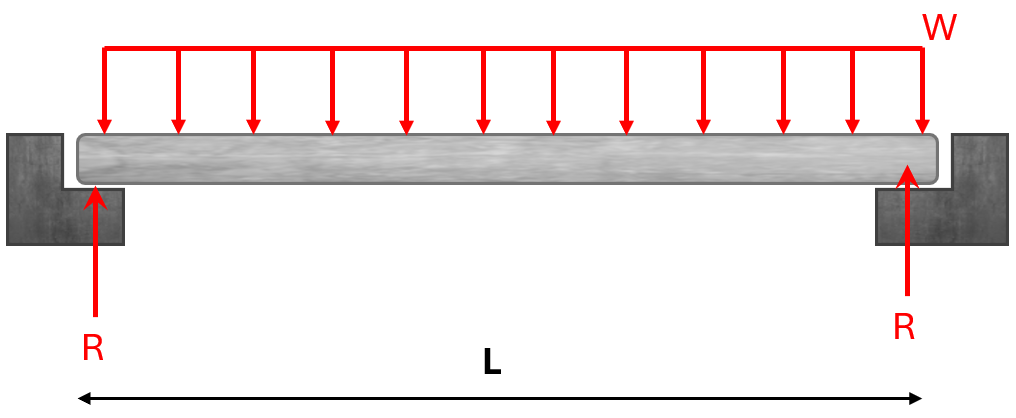
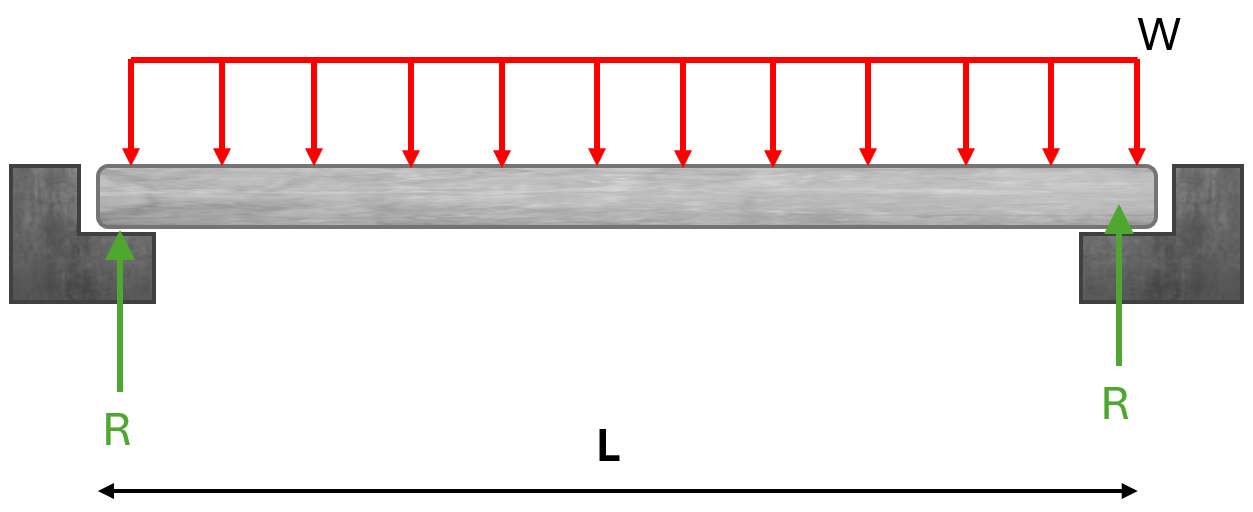
Teoria Apoyos y reacciones

diff --git a/Class_Teoria.py b/Class_Teoria.py
@@ -798,23 +798,28 @@ conceptuales = [
 
 
 
-    # #------------------------------------------------------ Apoyos ----------------------------------------------------------
-    # #-------------------------------------------------    51000##0       ---------------------------------------------------
-    # Theory(#1
-    #     code = 5100010, 
-    #     no_pregunta = 1,
-    #     topic = "Apoyos y reacciones",
-    #     subtopic = "Apoyos y reacciones",
-    #     enunciado ="¿Cuál de los siguientes tipos de apoyos genera una reacción vertical y una reacción horizontal, pero no un momento?", 
-    #     opcion_1 = "Apoyo fijo o empotramiento",
-    #     opcion_2 = "Apoyo con articulación",
-    #     opcion_3 = "Apoyo tipo rodillo o patín",
-    #     opcion_4 = "Apoyo con collarín",
-    #     opcion_correcta = "Apoyo con articulación",
-    #     respuesta_P1 = "Un apoyo con articulación es un apoyo de segundo grado.Por ello, genera 2 reacciones las cuales restringen el desplazamiento pero no el giro o momento.",
-    #     respuesta_P2 = "",
-    #     ),
-             
+    #------------------------------------------------------ Apoyos ----------------------------------------------------------
+    #-------------------------------------------------    51000##0       ---------------------------------------------------
+    Theory(#1
+        code = 5100010, 
+        no_pregunta = 1,
+        topic = "Apoyos y reacciones",
+        subtopic = "Apoyos y reacciones",
+        enunciado = "Se puede afirmar sobre las reacciones de los apoyos $A$ y $B$ mostradas en la siguiente figura que:", 
+        opcion_1 = "Son correctas. Las reacciones corresponden al número de grados de libertad del apoyo; por lo tanto, un apoyo de primer grado tiene dos reacciones y un apoyo de segundo grado tiene una reacción.",
+        opcion_2 = "Son incorrectas. Las reacciones corresponden al número de restricciones del apoyo; por lo tanto, un apoyo de primer grado tiene una reacción y un apoyo de segundo grado tiene dos reacciones.",
+        opcion_3 = "Son incorrectas. Ambos apoyos generan el mismo número de reacciones para mantener el equilibrio.",
+        opcion_4 = "Son correctas. La suma de las reacciones de un apoyo de primer y segundo grado es tres.",
+        opcion_correcta = "Son incorrectas. Las reacciones corresponden al número de restricciones del apoyo; por lo tanto, un apoyo de primer grado tiene una reacción y un apoyo de segundo grado tiene dos reacciones.",
+        respuesta_P1 ="""
+        Son incorrectas. El grado del apoyo está relacionado con el número de restricciones que impone al movimiento del cuerpo.   
+
+        Un apoyo de primer grado, restringe únicamente la traslación en una dirección, por lo que genera una única reacción.  
+        Un apoyo de segundo grado, restringe las traslaciones en dos direcciones, por lo que genera dos reacciones. 
+        """,
+        respuesta_P2 = "",
+        ),
+   
     Theory(#2
         code = 5100020, 
         no_pregunta = 2,
@@ -829,28 +834,10 @@ conceptuales = [
         respuesta_P1 = "Los apoyos de primer grado, tanto en 2D como en 3D, son aquellos que impiden el desplazamiento en una sola dirección, lo cual genera una sola reacción.",
         respuesta_P2 = "",
         ),
-             
-    # Theory(#3
-    #     code = 5100030, 
-    #     no_pregunta = 3,
-    #     topic = "Apoyos y reacciones",
-    #     subtopic = "Apoyos y reacciones",
-    #     enunciado = "Considere las siguientes figuras e indique el número de restricciones o reacciones que generan teniendo en cuenta un sistema de tres cordenadas (3D) :",
-    #     opcion_1 = "I: 6; II: 3; III: 2",
-    #     opcion_2 = "I: 3; II: 2; III: 1",
-    #     opcion_3 = "I: 5; II: 6; III: 0",
-    #     opcion_4 = "I: 6; II: 5; III: 1",
-    #     opcion_correcta = "I: 6; II: 5; III: 1",
-    #     respuesta_P1 = """
-    #     La figura 1 es un apoyo fijo que no permite desplazamieto ni momento en ninguna dirección (x,y,z).
-    #     La figura 2 es un pasador y por ende permite únicamente el giro en una sola dirección. De tal forma que: #reacciones (3D) = 6 - Grados de libertad = 6 - 1 = 5.
-    #     La figura 3 permite el giro en las tres direcciones (Mx, My, Mz) y el desplazamiento en todo el plano del suelo (convencionalmente x-y) pero no hacia arriba. Del tal forma que: #reacciones (3D) = 6 - Grados de libertad = 6 - 5 = 1.""",
-    #     respuesta_P2 = "",
-    #     ),    
-
-    Theory(#4
-        code = 5100040, 
-        no_pregunta = 4,
+               
+    Theory(#3
+        code = 5100030, 
+        no_pregunta = 3,
         topic = "Apoyos y reacciones",
         subtopic = "Apoyos y reacciones",
         enunciado = "¿Cuáles reacciones genera un apoyo empotrado en un estructura bidimensional?",
@@ -879,21 +866,6 @@ conceptuales = [
     #     opcion_4 = "Todas las cargas se aplican en los nodos y existe fricción en las uniones.",
     #     opcion_correcta =  "Todas las cargas se aplican en los nodos y no existe fricción en las uniones.",
     #     respuesta_P1 = " ",
-    #     respuesta_P2 = "",
-    #     ),
-
-    # Theory(#2
-    #     code = 6100020, 
-    #     no_pregunta = 2,
-    #     topic = "Equilibrio de partículas",
-    #     subtopic = "Cerchas",
-    #     enunciado ="¿Cuál es la condición básica para que una cercha sea estáticamente determinada?", 
-    #     opcion_1 = "El número de elementos debe ser igual al número de nodos.",
-    #     opcion_2 = "El número de elementos debe ser mayor que el número de nodos.",
-    #     opcion_3 = "El número de elementos debe ser igual a 2n−3.",
-    #     opcion_4 = "El número de nodos debe ser igual al número de apoyos.",
-    #     opcion_correcta = "El número de elementos debe ser igual a 2n−3.",
-    #     respuesta_P1 = "Para que una cercha sea estáticamente determinada, el número de barras debe cumplir la ecuación m=2n−3, donde m es el número de barras y n es el número de nodos. Esta relación asegura que la estructura puede analizarse usando las ecuaciones de equilibrio sin necesidad de recurrir a métodos avanzados de análisis.",
     #     respuesta_P2 = "",
     #     ),
 

diff --git a/Interface.py b/Interface.py
@@ -1421,6 +1421,9 @@ if authenticate_user():
                     st.image(SI_teoria_preguntas[0], width=800) 
                 if pregunta_no == 3:
                     st.image(SI_teoria_preguntas[1], width=800) 
+            if subtopic == "Apoyos y reacciones":
+                if pregunta_no == 1:
+                    st.image(AP_teoria_preguntas[0], width=600) 
             if subtopic == "Centroides":
                 if pregunta_no == 1:
                     st.image(CT_teoria_preguntas[0], width=350)

diff --git a/Imagenes.py b/Imagenes.py
@@ -453,6 +453,10 @@ SI_teoria_preguntas =[#Sistemas equivalentes
 "./Imagenes/Teoria_Preguntas/SI/T_SI_SI_3.png", #[1]  
 ]
 
+AP_teoria_preguntas =[#Apoyos y reacciones
+"./Imagenes/Teoria_Preguntas/AP/T_AP_AP_1.png", #[0] 
+]
+
 CT_teoria_preguntas=[#Centroides
 "./Imagenes/Teoria_Preguntas/CT/T_CT_CT_1.png", #[0] 
 "./Imagenes/Teoria_Preguntas/CT/T_CT_CT_2.png", #[1] 
